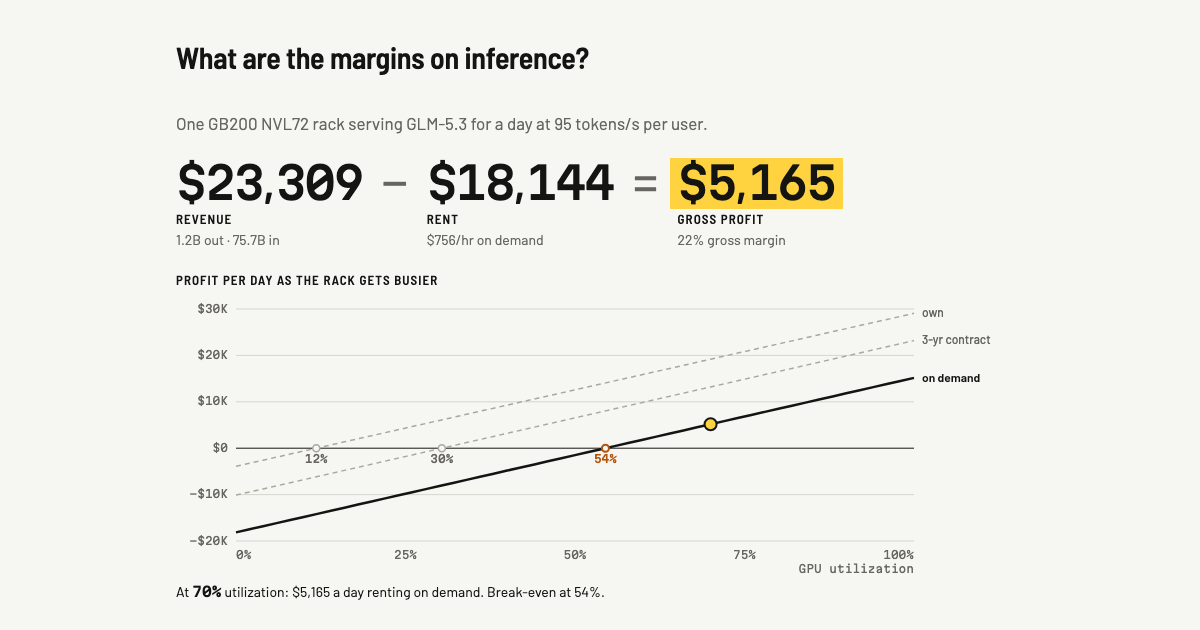
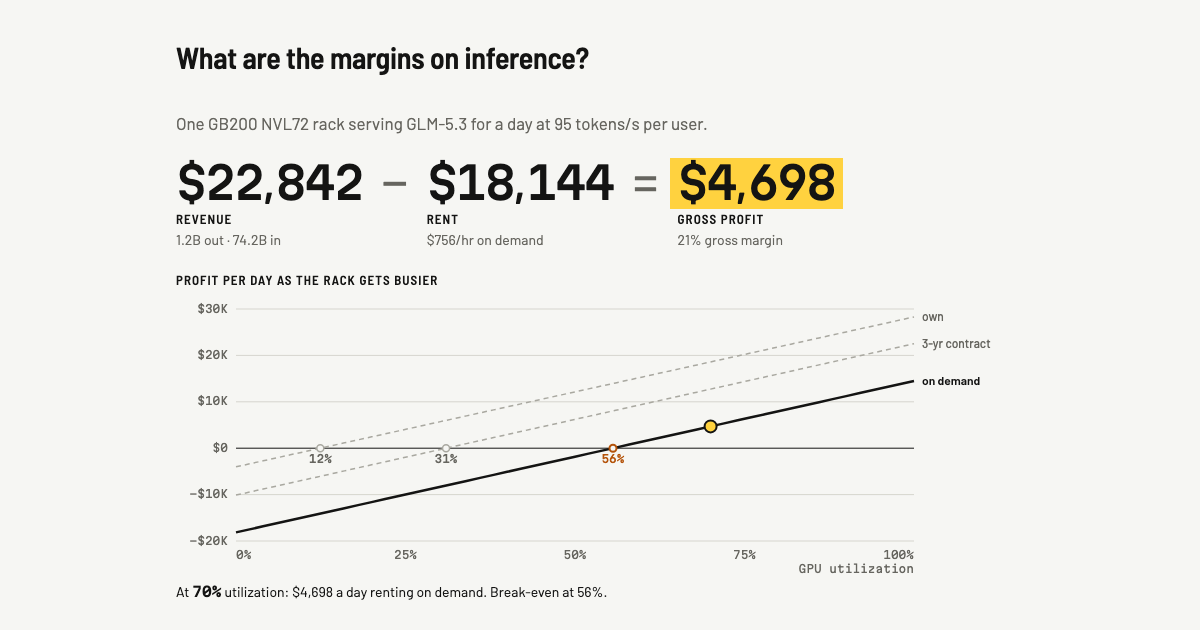
Keep overhead and a typed rent with the way the rack is paid for
Overhead differs between renting and owning, and a rent typed for on
demand is not a contract price, so each of on demand, contract and own
keeps its own overhead and typed rent; token price, traffic shape,
utilization and speed stay shared. The chart draws each line with that
mode's own values. Switching racks drops a typed rent, since a GB200
price is not a GB300 price. Owning details list support and spares,
operations and the 98% availability.

diff --git a/apps/web/e2e/site.spec.ts b/apps/web/e2e/site.spec.ts
@@ -12,13 +12,13 @@ async function nudge(page: Page, testId: string, key: 'ArrowRight' | 'ArrowLeft'
 
 test('1. defaults answer the four questions: rent, tokens, revenue, profit', async ({ page }) => {
   await page.goto('/');
-  await expect(page.getByTestId('revenue')).toHaveText('$23,309');
+  await expect(page.getByTestId('revenue')).toHaveText('$22,842');
   await expect(page.getByTestId('cost')).toHaveText('$18,144');
-  await expect(page.getByTestId('profit')).toHaveText('$5,165');
-  await expect(page.getByTestId('margin')).toHaveText('22% gross margin');
-  await expect(page.getByTestId('equation')).toContainText('1.2B out · 75.7B in');
-  await expect(page.getByTestId('chart-readout')).toHaveText('At 70% utilization: $5,165 a day renting on demand. Break-even at 54%.');
-  await expect(page.getByTestId('profit-chart').getByRole('img')).toHaveAttribute('aria-label', /renting on demand breaks even at 54%; renting on a 3-yr contract breaks even at 30%; owning breaks even at 12%/);
+  await expect(page.getByTestId('profit')).toHaveText('$4,698');
+  await expect(page.getByTestId('margin')).toHaveText('21% gross margin');
+  await expect(page.getByTestId('equation')).toContainText('1.2B out · 74.2B in');
+  await expect(page.getByTestId('chart-readout')).toHaveText('At 70% utilization: $4,698 a day renting on demand. Break-even at 56%.');
+  await expect(page.getByTestId('profit-chart').getByRole('img')).toHaveAttribute('aria-label', /renting on demand breaks even at 56%; renting on a 3-yr contract breaks even at 31%; owning breaks even at 12%/);
   await expect(page.getByTestId('disclaimer')).toContainText('Not financial, investment, tax, or purchasing advice');
   await expect(page.getByTestId('disclaimer').getByRole('link')).toHaveAttribute('href', 'https://github.com/ganeshkumarashok/token-margin');
 });
@@ -27,21 +27,21 @@ test('2. the contract toggle cuts rent to $421/hr and lands in the URL', async (
   await page.goto('/');
   await page.getByRole('radio', { name: /Rent on contract/ }).click();
   await expect(page.getByTestId('cost')).toHaveText('$10,109');
-  await expect(page.getByTestId('profit')).toHaveText('$13,200');
-  await expect(page.getByTestId('margin')).toHaveText('57% gross margin');
+  await expect(page.getByTestId('profit')).toHaveText('$12,734');
+  await expect(page.getByTestId('margin')).toHaveText('56% gross margin');
   await expect(page).toHaveURL(/rb=contract/);
 });
 
-test('3. lower utilization lowers profit; the break-even tick sits at 54%', async ({ page }) => {
+test('3. lower utilization lowers profit; the break-even tick sits at 56%', async ({ page }) => {
   await page.goto('/');
-  await expect(page.getByTestId('s-sold')).toContainText('break-even 54%');
+  await expect(page.getByTestId('s-sold')).toContainText('break-even 56%');
   const before = await money(page, 'profit');
   await nudge(page, 's-sold', 'ArrowLeft', 20);
   await expect(page.getByTestId('s-sold')).toContainText('50%');
   const after = await money(page, 'profit');
   expect(after).toBeLessThan(before);
   expect(after).toBeLessThan(0);
-  await expect(page.getByTestId('chart-readout')).toContainText('At 50% utilization: −$1,495 a day');
+  await expect(page.getByTestId('chart-readout')).toContainText('At 50% utilization: −$1,828 a day');
   await expect(page).toHaveURL(/u=0\.5/);
 });
 
@@ -56,7 +56,7 @@ test('4. more input per output raises revenue (agents resend context)', async ({
 test('5. owning swaps rent for the cost of owning and a rack-price slider', async ({ page }) => {
   await page.goto('/');
   await page.getByRole('radio', { name: 'Own' }).click();
-  await expect(page.getByTestId('cost')).toHaveText('$4,132');
+  await expect(page.getByTestId('cost')).toHaveText('$4,245');
   await expect(page.getByTestId('s-capex')).toContainText('$3.90M');
   await expect(page.getByTestId('s-rent')).toHaveCount(0);
   await expect(page.getByTestId('chart-readout')).toContainText('a day owning');
@@ -69,7 +69,7 @@ test('6. GB300 uses its own curve, rent and price list', async ({ page }) => {
   await page.goto('/');
   await page.getByRole('radio', { name: 'GB300' }).click();
   await expect(page.getByTestId('cost')).toHaveText('$21,462');
-  await expect(page.getByTestId('revenue')).toHaveText('$28,535');
+  await expect(page.getByTestId('revenue')).toHaveText('$27,965');
   await expect(page.getByRole('radio', { name: /Rent on demand \$894\/hr/ })).toBeVisible();
 });
 
@@ -79,7 +79,7 @@ test('7. a shared URL restores the scenario; reset returns to the defaults', asy
   await expect(page.getByRole('radio', { name: 'High' })).toHaveAttribute('aria-checked', 'true');
   await expect(page.getByTestId('cost')).toHaveText('$11,405');
   await page.getByRole('button', { name: /Reset/ }).click();
-  await expect(page.getByTestId('profit')).toHaveText('$5,165');
+  await expect(page.getByTestId('profit')).toHaveText('$4,698');
   await expect(page).toHaveURL(/\/$/);
 });
 
@@ -89,7 +89,7 @@ test('8. phone: no sideways scroll, every control reachable', async ({ browser }
   await page.goto('/');
   expect(await page.evaluate(() => document.documentElement.scrollWidth - document.documentElement.clientWidth)).toBe(0);
   await page.getByRole('radio', { name: /Rent on contract/ }).tap();
-  await expect(page.getByTestId('profit')).toHaveText('$13,200');
+  await expect(page.getByTestId('profit')).toHaveText('$12,734');
   await page.screenshot({ path: 'e2e/screenshots/phone.png', fullPage: true });
   await ctx.close();
 });
@@ -101,7 +101,7 @@ test('9. dark mode renders with no console errors', async ({ browser }) => {
   page.on('console', (m) => m.type() === 'error' && errors.push(m.text()));
   page.on('pageerror', (e) => errors.push(e.message));
   await page.goto('/');
-  await expect(page.getByTestId('profit')).toHaveText('$5,165');
+  await expect(page.getByTestId('profit')).toHaveText('$4,698');
   const bg = await page.evaluate(() => getComputedStyle(document.body).backgroundColor);
   expect(bg).toBe('rgb(18, 18, 17)');
   expect(errors).toEqual([]);
@@ -110,9 +110,9 @@ test('9. dark mode renders with no console errors', async ({ browser }) => {
 
 test('10. overhead adds a cost term and turns gross profit into profit', async ({ page }) => {
   await page.goto('/?oh=0.1');
-  await expect(page.getByTestId('overhead')).toHaveText('$2,331');
-  await expect(page.getByTestId('profit')).toHaveText('$2,834');
-  await expect(page.getByTestId('margin')).toHaveText('12% margin');
+  await expect(page.getByTestId('overhead')).toHaveText('$2,284');
+  await expect(page.getByTestId('profit')).toHaveText('$2,414');
+  await expect(page.getByTestId('margin')).toHaveText('11% margin');
   await expect(page.getByTestId('s-overhead')).toContainText('10% of revenue');
 });
 
@@ -124,4 +124,20 @@ test('11. hovering the chart reads out all three ways of paying for the rack', a
   await expect(page.getByTestId('chart-readout')).toContainText('on demand');
   await expect(page.getByTestId('chart-readout')).toContainText('3-yr contract');
   await expect(page.getByTestId('chart-readout')).toContainText('own');
+});
+
+test('12. overhead and a typed rent stay with their own way of paying; a rack switch drops a typed rent', async ({ page }) => {
+  await page.goto('/?oh=0.1');
+  await page.getByRole('radio', { name: 'Own' }).click();
+  await expect(page.getByTestId('s-overhead')).toContainText('0% of revenue');
+  await page.getByRole('radio', { name: /Rent on demand/ }).click();
+  await expect(page.getByTestId('s-overhead')).toContainText('10% of revenue');
+  await page.goto('/?rent=8');
+  await expect(page.getByTestId('s-rent')).toContainText('$576/hr');
+  await page.getByRole('radio', { name: /Rent on contract/ }).click();
+  await expect(page.getByTestId('s-rent')).toContainText('$421/hr');
+  await page.getByRole('radio', { name: /Rent on demand/ }).click();
+  await expect(page.getByTestId('s-rent')).toContainText('$576/hr');
+  await page.getByRole('radio', { name: 'GB300' }).click();
+  await expect(page.getByTestId('s-rent')).toContainText('$894/hr');
 });

diff --git a/apps/web/src/state/useModel.ts b/apps/web/src/state/useModel.ts
@@ -40,8 +40,26 @@ export function breakEven(s: Settings, key: keyof Settings, lo: number, hi: numb
   return null;
 }
 
+/** How the rack is paid for. Overhead and a typed rent belong to one mode and do not carry to the others. */
+export type Mode = 'onDemand' | 'contract' | 'own';
+export interface ModeValues { overheadPct: number; rentUsdPerGpuHr: number | null }
+export const modeOf = (s: Settings): Mode => (s.tenure === 'own' ? 'own' : s.rentBasis);
+const blankModes = (): Record<Mode, ModeValues> => {
+  const d = defaultSettings(A);
+  const v = { overheadPct: d.overheadPct, rentUsdPerGpuHr: null };
+  return { onDemand: { ...v }, contract: { ...v }, own: { ...v } };
+};
+
+/** Settings for another mode: shared market inputs from `s`, that mode's own overhead and rent. */
+export function settingsForMode(s: Settings, mode: Mode, modes: Record<Mode, ModeValues>): Settings {
+  if (mode === modeOf(s)) return s;
+  const own = mode === 'own';
+  return { ...s, ...modes[mode], tenure: own ? 'own' : 'rent', rentBasis: own ? s.rentBasis : mode };
+}
+
 export function useModel() {
   const [settings, setSettings] = useState<Settings>(() => parseUrl(A, window.location.search));
+  const [modes, setModes] = useState<Record<Mode, ModeValues>>(blankModes);
 
   useEffect(() => {
     const t = window.setTimeout(() => {
@@ -61,17 +79,40 @@ export function useModel() {
     return { points, inputs, result, demand, rent: rentFor(A, settings), prices: sellPrices(A, settings) };
   }, [settings]);
 
-  const update = (patch: Partial<Settings>) =>
+  const update = (patch: Partial<Settings>) => {
+    const rackChange = patch.rack !== undefined && patch.rack !== settings.rack;
+    // A rent typed for one rack is not a price for the other.
+    if (rackChange) setModes((ms) => ({
+      onDemand: { ...ms.onDemand, rentUsdPerGpuHr: null },
+      contract: { ...ms.contract, rentUsdPerGpuHr: null },
+      own: { ...ms.own, rentUsdPerGpuHr: null },
+    }));
     setSettings((s) => {
       const next = { ...s, ...patch };
-      if (patch.rack && patch.rack !== s.rack) next.interactivity = clampInteractivity(A, patch.rack, next.interactivity);
+      if (rackChange && patch.rack) {
+        next.interactivity = clampInteractivity(A, patch.rack, next.interactivity);
+        next.rentUsdPerGpuHr = null;
+      }
       return next;
     });
+  };
 
-  const reset = () => setSettings(defaultSettings(A));
+  /** Switch how the rack is paid for, keeping each mode's own overhead and rent. */
+  const setMode = (next: Mode) => {
+    const cur = modeOf(settings);
+    if (next === cur) return;
+    const saved = { ...modes, [cur]: { overheadPct: settings.overheadPct, rentUsdPerGpuHr: settings.rentUsdPerGpuHr } };
+    setModes(saved);
+    setSettings(settingsForMode(settings, next, saved));
+  };
+
+  const reset = () => {
+    setModes(blankModes());
+    setSettings(defaultSettings(A));
+  };
   const isDefault = toSearch(A, settings) === '';
 
-  return { settings, update, reset, isDefault, ...derived };
+  return { settings, modes, update, setMode, reset, isDefault, ...derived };
 }
 
 export type Model = ReturnType<typeof useModel>;

diff --git a/apps/web/src/components/Details.tsx b/apps/web/src/components/Details.tsx
@@ -11,7 +11,7 @@ export const DISCLAIMER =
 const SOURCES = [
   'inferencex-agentx', 'openrouter-glm53-activity', 'openrouter-glm53-endpoints', 'zai-pricing',
   'coreweave-pricing', 'verda-pricing', 'contracts-2026', 'semianalysis-gb200-capex', 'datagravity-nvl72-cost',
-  'eia-5-6-a', 'cbre-colo', 'hf-glm-5.3',
+  'eia-5-6-a', 'cbre-colo', 'owning-opex-2026', 'inferencex-tco-availability', 'hf-glm-5.3',
 ].filter((id) => A.sources[id]);
 
 /** Footnote marks; several sources share one superscript, comma-separated. */
@@ -39,7 +39,7 @@ export function Details({ m }: { m: Model }) {
         <dd>
           {fmtInt(d.benchPerGpu)} output tokens/s per GPU at {Math.round(i.interactivity)} tok/s per user in InferenceX's measurements, prefill GPUs
           included<Fn id="inferencex-agentx" />; {fmtInt(d.capacityPerGpu)} on this traffic, which prefills {uncachedPerOut.toFixed(1)} uncached
-          input tokens per output token against {i.refUncachedPerOut} in the benchmark. At {fmtPct(i.utilization)} utilization it sells {fmtInt(d.tpsPerGpu * i.utilization)} per GPU.
+          input tokens per output token against {i.refUncachedPerOut} in the benchmark. The rack is up {fmtPct(i.availability)} of the time (one failure every 24 days, 12 hours to recover)<Fn id="inferencex-tco-availability" />, and at {fmtPct(i.utilization)} utilization it sells {fmtInt(d.tpsPerGpu * i.utilization)} per GPU.
         </dd>
         <dt>Tokens</dt>
         <dd>
@@ -55,8 +55,8 @@ export function Details({ m }: { m: Model }) {
         <dd>
           {owning ? (
             <>
-              {fmtUsdInt(d.electricityUsd)} power + {fmtUsdInt(d.coloUsd)} space + {fmtUsdInt(d.otherOpexUsd)} upkeep + {fmtUsdInt(d.depreciationUsd)} wear
-              on a ${(d.capexUsd / 1e6).toFixed(1)}M rack<Fn id={[A.racks[s.rack].priceUsd.source, 'eia-5-6-a', 'cbre-colo']} />.
+              {fmtUsdInt(d.electricityUsd)} power + {fmtUsdInt(d.coloUsd)} space + {fmtUsdInt(d.otherOpexUsd)} support and spares + {fmtUsdInt(d.opsUsd)} operations + {fmtUsdInt(d.depreciationUsd)} wear
+              on a ${(d.capexUsd / 1e6).toFixed(1)}M rack<Fn id={[A.racks[s.rack].priceUsd.source, 'eia-5-6-a', 'cbre-colo', 'owning-opex-2026']} />.
             </>
           ) : (
             <>

diff --git a/apps/web/src/components/ProfitChart.tsx b/apps/web/src/components/ProfitChart.tsx
@@ -1,18 +1,12 @@
 import { useLayoutEffect, useMemo, useRef, useState } from 'react';
 import { fmtPct, fmtUsdInt, type Settings } from '@token-margin/engine';
-import { breakEven, profitOf, type Model } from '../state/useModel';
+import { breakEven, profitOf, settingsForMode, type Model } from '../state/useModel';
 
 type Basis = 'onDemand' | 'contract' | 'own';
 const BASES: Basis[] = ['onDemand', 'contract', 'own'];
 const LABEL: Record<Basis, string> = { onDemand: 'on demand', contract: '3-yr contract', own: 'own' };
 const DOING: Record<Basis, string> = { onDemand: 'renting on demand', contract: 'renting on a 3-yr contract', own: 'owning' };
 const STEPS = 50;
-
-function settingsFor(s: Settings, b: Basis, active: Basis): Settings {
-  if (b === 'own') return { ...s, tenure: 'own' };
-  // A rent typed on the slider belongs to the basis it was typed under.
-  return { ...s, tenure: 'rent', rentBasis: b, rentUsdPerGpuHr: b === active ? s.rentUsdPerGpuHr : null };
-}
 
 /** Rounds a step to 1, 2 or 5 × 10^n so axis labels stay readable. */
 function niceStep(span: number, ticks: number): number {
@@ -46,10 +40,10 @@ export function ProfitChart({ m }: { m: Model }) {
   const [hover, setHover] = useState<number | null>(null);
 
   const lines = useMemo(() => BASES.map((b) => {
-    const sb = settingsFor(s, b, active);
+    const sb = settingsForMode(s, b, m.modes);
     const pts = Array.from({ length: STEPS + 1 }, (_, k) => profitOf({ ...sb, utilization: k / STEPS }));
     return { b, sb, pts, zero: breakEven(sb, 'utilization', 0, 1) };
-  }), [s, active]);
+  }), [s, m.modes]);
 
   const narrow = width < 520;
   const H = narrow ? 260 : 280;

diff --git a/apps/web/index.html b/apps/web/index.html
@@ -7,12 +7,12 @@
     <meta name="description" content="One NVIDIA NVL72 rack, one day, serving GLM-5.3: what it costs, how many tokens it serves, what they sell for, and the profit. Measured throughput, real traffic, real prices. Personal project; not financial advice." />
     <meta property="og:type" content="website" />
     <meta property="og:title" content="What are the margins on inference?" />
-    <meta property="og:description" content="One GB200 rack, one day, GLM-5.3: $23,309 of tokens − $18,144 on-demand rent = $5,165. On a 3-year contract: $13,200." />
+    <meta property="og:description" content="One GB200 rack, one day, GLM-5.3: $22,842 of tokens − $18,144 on-demand rent = $4,698. On a 3-year contract: $12,734." />
     <meta property="og:url" content="https://ganeshkumarashok.github.io/token-margin/" />
     <meta property="og:image" content="https://ganeshkumarashok.github.io/token-margin/og.png" />
     <meta name="twitter:card" content="summary_large_image" />
     <meta name="twitter:title" content="What are the margins on inference?" />
-    <meta name="twitter:description" content="One GB200 rack, one day, GLM-5.3: $23,309 of tokens − $18,144 on-demand rent = $5,165. On a 3-year contract: $13,200." />
+    <meta name="twitter:description" content="One GB200 rack, one day, GLM-5.3: $22,842 of tokens − $18,144 on-demand rent = $4,698. On a 3-year contract: $12,734." />
     <meta name="twitter:image" content="https://ganeshkumarashok.github.io/token-margin/og.png" />
     <link rel="preconnect" href="https://fonts.googleapis.com" />
     <link rel="preconnect" href="https://fonts.gstatic.com" crossorigin />

diff --git a/apps/web/src/components/Controls.tsx b/apps/web/src/components/Controls.tsx
@@ -73,8 +73,7 @@ export function Controls({ m }: { m: Model }) {
   const range = (k: string) => A.ranges[k];
   const zero = (k: keyof Settings, [lo, hi]: [number, number, number] | [number, number]) => breakEven(s, k, lo, hi);
   const cost: Cost = s.tenure === 'own' ? 'own' : s.rentBasis;
-  const setCost = (c: Cost) =>
-    update(c === 'own' ? { tenure: 'own' } : { tenure: 'rent', rentBasis: c, rentUsdPerGpuHr: null });
+  const setCost = (c: Cost) => m.setMode(c);
 
   const [iLo, iHi] = curveBounds(m.points);
   const rentRange: [number, number] = [range('rentUsdPerGpuHr')[0], range('rentUsdPerGpuHr')[1]];

diff --git a/apps/web/src/components/Answer.tsx b/apps/web/src/components/Answer.tsx
@@ -14,7 +14,7 @@ export function Answer({ m }: { m: Model }) {
   const rack = A.racks[s.rack];
   const owning = s.tenure === 'own';
   const costNote = owning
-    ? 'power, space, upkeep, wear'
+    ? 'power, space, support, ops, wear'
     : `${fmtUsdInt(m.rent * rack.gpus)}/hr ${s.rentBasis === 'contract' ? '3-yr contract' : 'on demand'}`;
   const loss = d.operatingProfitUsd < 0;
   const gross = i.overheadPct === 0;
